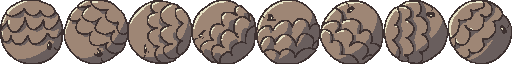
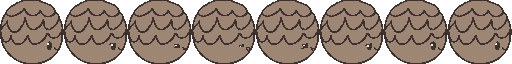
Things

diff --git a/Tank_Game/Tank_game/Golgrath/Objects/CanvasObjects/CanvasPlayerBall.cs b/Tank_Game/Tank_game/Golgrath/Objects/CanvasObjects/CanvasPlayerBall.cs
@@ -21,7 +21,7 @@ namespace GXPEngine.Golgrath.Objects
         private PlayerCamera camera;
         public CanvasPlayerBall(int radius, Vec2 position, Vec2 gravity, Vec2 velocity) : base(radius, position, gravity, velocity)
         {
-            playerSprite = new AnimationSprite("ConeTest.png", 1,1,-1,false,false);
+            playerSprite = new AnimationSprite("RollingPineCone.png", 8,1,-1,false,false);
             playerSprite.SetOrigin(this.radius,this.radius);
             
             this.DrawRect(0, 200, 0);
@@ -98,21 +98,23 @@ namespace GXPEngine.Golgrath.Objects
             else rotation += velocity.Length();
             if (rotation >= 360 || rotation <= -360) rotation = 0;
 
-           /* if (velocity.Normalized().x < 0 && !goingLeft)// To left
-            {
-                playerSprite.initializeFromTexture(Texture2D.GetInstance("RollingPineConeLeft.png", false));
-                playerSprite.initializeAnimFrames(8, 1, -1);
-                playerSprite.SetOrigin(this.radius, this.radius);
-                goingLeft = true;
-            }
-            else if(velocity.Normalized().x > 0 && goingLeft)//To right
-            {
-                playerSprite.initializeFromTexture(Texture2D.GetInstance("RollingPineCone.png", false));
-                playerSprite.initializeAnimFrames(8, 1, -1);
-                playerSprite.SetOrigin(this.radius, this.radius);
-                goingLeft = false;
-            }
-            playerSprite.Animate(velocity.Length()/50);*/
+            //Rotatin sprite instead of ball...
+            /* if (velocity.Normalized().x < 0 && !goingLeft)// To left
+             {
+                 playerSprite.initializeFromTexture(Texture2D.GetInstance("RollingPineConeLeft.png", false));
+                 playerSprite.initializeAnimFrames(8, 1, -1);
+                 playerSprite.SetOrigin(this.radius, this.radius);
+                 goingLeft = true;
+             }
+             else if(velocity.Normalized().x > 0 && goingLeft)//To right
+             {
+                 playerSprite.initializeFromTexture(Texture2D.GetInstance("RollingPineCone.png", false));
+                 playerSprite.initializeAnimFrames(8, 1, -1);
+                 playerSprite.SetOrigin(this.radius, this.radius);
+                 goingLeft = false;
+             }
+             playerSprite.Animate(velocity.Length()/50);*/
+            playerSprite.Animate(0.05f);
 
         }
         private void DrawRect(byte red, byte green, byte blue)
@@ -201,7 +203,8 @@ namespace GXPEngine.Golgrath.Objects
         {
             if (other is Geyser)
             {
-                velocity += Vec2.GetUnitVectorDeg(-90) * 2;
+                Geyser geyser = (Geyser)other;
+                velocity += Vec2.GetUnitVectorDeg(-90 + geyser.rotation) * geyser.strength;
             }
             if(other is OrbitalField)
             {

diff --git a/Tank_Game/Tank_game/TiledLoader/Level.cs b/Tank_Game/Tank_game/TiledLoader/Level.cs
@@ -104,6 +104,7 @@ namespace GXPEngine.TiledLoader
                             case "Geyser":
                                 Geyser geyser = new Geyser(10,new Vec2(obj.X,obj.Y),"cyan_block.png",1,1);
                                 objectLayer.AddChild(geyser);
+                                geyser.rotation = obj.Rotation;
                                 break;
                             case "MagneticField":
                                 OrbitalField magneticField = new OrbitalField(0.025F, 44, new Vec2(obj.X, obj.Y));

diff --git a/Tank_Game/Tank_game/Coolgrath/Geyser.cs b/Tank_Game/Tank_game/Coolgrath/Geyser.cs
@@ -14,6 +14,7 @@ namespace GXPEngine.Coolgrath
 
         public Geyser(float _strength, Vec2 position, string filename, int cols, int rows, int frames = -1) : base(position, filename, cols, rows, frames)
         {
+            SetOrigin(width/2,height/2);
             strength = _strength;
             MyGame myGame = (MyGame)Game.main;
             //myGame.geysers.Add(this);

diff --git a/Tank_Game/Tank_game/Coolgrath/OrbitalField.cs b/Tank_Game/Tank_game/Coolgrath/OrbitalField.cs
@@ -11,6 +11,7 @@ namespace GXPEngine.Coolgrath
     class OrbitalField : CanvasCircle
     {
         public float PullStrength {get;set;}
+        public Boolean isInteractableObject;
         public OrbitalField(float pPullStrength, int pRadius, Vec2 pPosition) : base(pRadius * 2 + 1, pPosition)
         {
             PullStrength = pPullStrength;

diff --git a/Tank_Game/Tank_game/Coolgrath/InteractableObject.cs b/Tank_Game/Tank_game/Coolgrath/InteractableObject.cs
@@ -6,7 +6,7 @@ using GXPEngine.Golgrath.Objects;
 
 namespace GXPEngine.Coolgrath
 {
-    public class InteractableObject : GameObject
+    public class InteractableObject
     {
 
         /*public InteractableObject(Vec2 _position, bool _useGravity = false, bool collider = true) : base(collider);

diff --git a/Tank_Game/Tank_game/PhysicsEngine/Colliders/Collider.cs b/Tank_Game/Tank_game/PhysicsEngine/Colliders/Collider.cs
@@ -7,7 +7,7 @@ using Physics;
 
 namespace GXPEngine.PhysicsEngine.Colliders
 {
-    public abstract class Collider
+    public abstract class Collider : GameObject
     {
         public bool trigger;
         protected Vec2 position;
